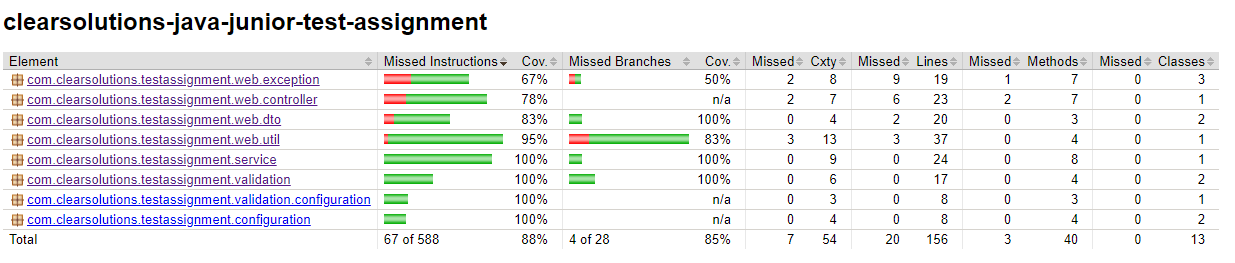
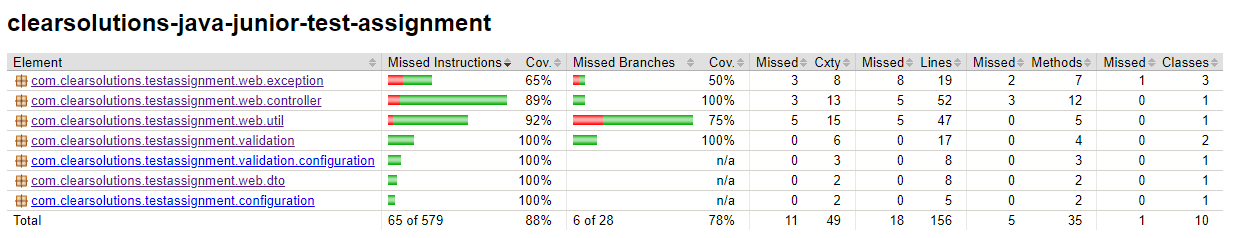
Update README.md

diff --git a/README.md b/README.md
@@ -66,8 +66,15 @@ UserDataDto {
 }
 ```
 
+## Testing
+Testing completed for web layer and validators.
+
+### Test coverage
+Not 100%  coverage due to autogenerated MapStruct implementation and mocked repo.
+![](/readme_images/testing_status.png)
+
 ## Validation
-Validation happens in Service layer programmatically. For field `birthDate` and birthdate range entity created custom annotations. Validation properties and messages are externalized in `validation.properties` file in `resource` dir.
+Validation happens in Web layer programmatically. For field `birthDate` and birthdate range entity created custom annotations. Validation properties and messages are externalized in `validation.properties` file in `resource` dir.
 
 ## Exception handling
 All controller exceptions are handled by `@ControllerAdvice` exception handler. It translates internal exceptions in ResponseEntities with response codes
